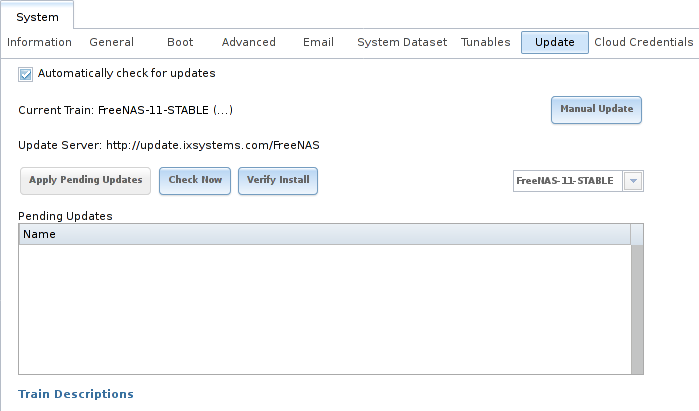
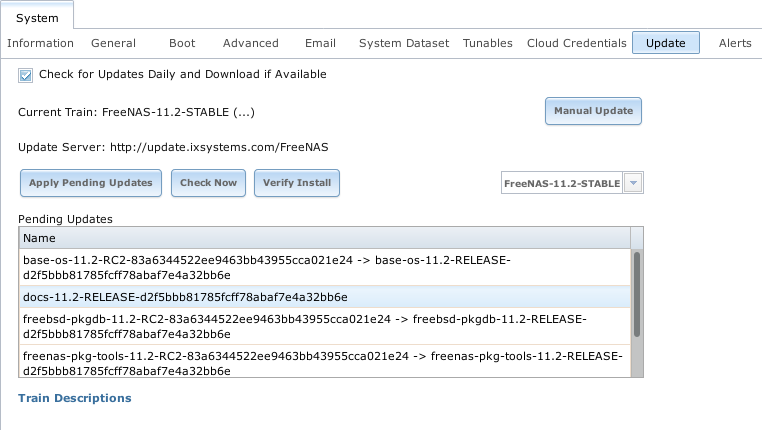
Update again from final changes in PR 462: - Update system-update1a.png - HTML build test: no issues.

diff --git a/userguide/system.rst b/userguide/system.rst
@@ -1468,9 +1468,9 @@ Applying Updates
 Make sure the system is in a low-usage state as described above in
 :ref:`Preparing for Updates`.
 
-Click the :guilabel:`OK` button to download and apply the updates. Be
-aware that some updates automatically reboot the system after they are
-applied.
+Click the :guilabel:`OK` button to immediately download and install an
+update. Be aware that some updates automatically reboot the system after
+they are applied.
 
 .. warning:: Each update creates a boot environment. If the update
    process needs more space, it attempts to remove old boot
@@ -1481,6 +1481,10 @@ applied.
    :menuselection:`System --> Boot`.
    Review the boot environments and remove the *Keep* attribute or
    delete any boot environments that are no longer needed.
+
+
+During the update process a progress dialog appears. **Do not**
+interrupt the update until it completes.
 
 Updates can also be downloaded and applied later. To do so, unset the
 :guilabel:`Apply updates after downloading` option before pressing
@@ -1510,7 +1514,8 @@ update file, then click :guilabel:`Apply Update` to apply it.
 There is also an option to back up the system configuration before
 updating. Click :guilabel:`Click here` and select any options to export
 in the configuration file. Click :guilabel:`OK` to open a popup window
-to save the system configuration.
+to save the system configuration. A progress dialog is displayed during
+the update. **Do not** interrupt the update.
 
 .. tip:: Manual updates cannot be used to upgrade from older major
    versions.
